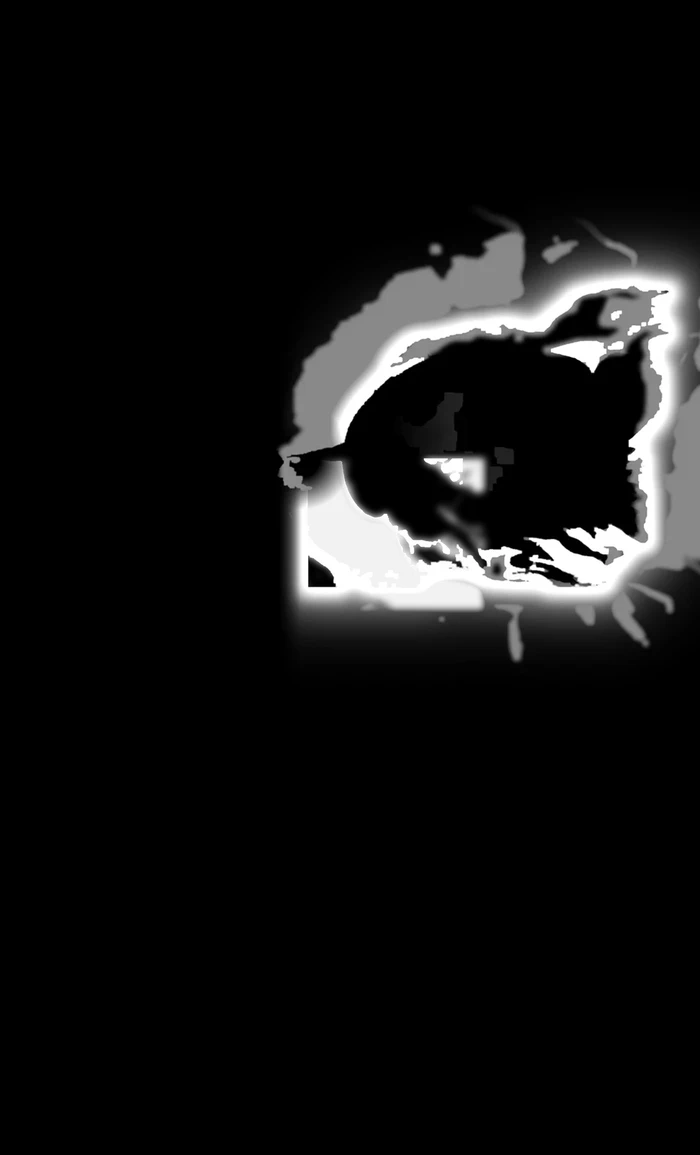
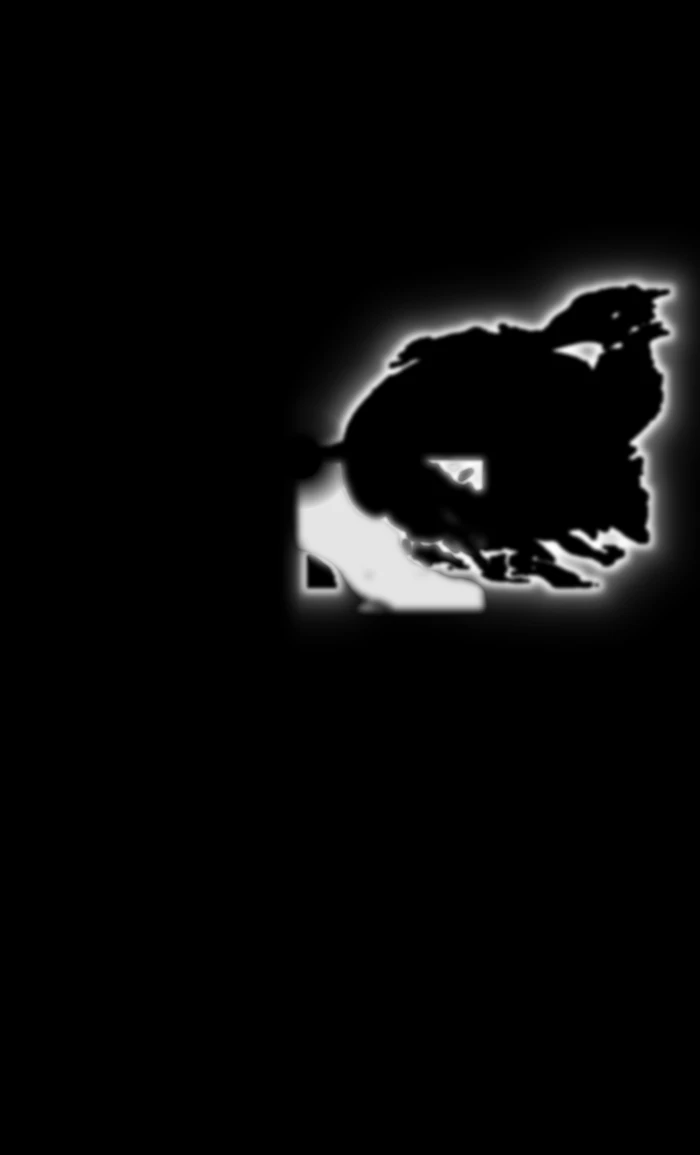
Christ whole: no glitch across the table edge, no white rim; narrower glitch on God
- Last Supper: the band across the table edge stays clear, so Christ is
  never shown split between body and feet; his figure edge is pulled in
  past the window fringe kept by the cut, so no bright outline shows
  when the glitch darkens the air; the halo's glow is kept off his hair.
- Day: the glitch around God is narrower (same reach as around Christ)
  and fades just before his body.

Changed region(s): [[0.39, 0.187, 1.0, 0.5922]]

diff --git a/public/main.js b/public/main.js
@@ -45,8 +45,8 @@ const load = src => new Promise((res, rej) => { const i = new Image(); i.onload 
 // each picture is one painting grown past Michelangelo's frame; wide and tall screens are cut from it around its focus
 const shape = innerWidth / innerHeight >= .8 ? 'wide' : 'tall';
 if (!gl) { root.classList.add('no-gl'); ready(); }
-else fetch('/img/scene.json?v=1791965016').then(r => r.json()).then(meta =>
-  Promise.all([shape === 'wide' ? 'night-wide' : 'night', shape === 'wide' ? 'night-wide-flow' : 'night-flow', shape === 'wide' ? 'day' : 'day-tall', shape === 'wide' ? 'day-flow' : 'day-tall-flow', shape === 'wide' ? 'supper' : 'supper-tall', shape === 'wide' ? 'supper-flow' : 'supper-tall-flow', shape === 'wide' ? 'day-rift' : 'day-tall-rift', shape === 'wide' ? 'supper-aura' : 'supper-tall-aura'].map(n => load(`/img/${n}.webp?v=1791965016`)))
+else fetch('/img/scene.json?v=1791967020').then(r => r.json()).then(meta =>
+  Promise.all([shape === 'wide' ? 'night-wide' : 'night', shape === 'wide' ? 'night-wide-flow' : 'night-flow', shape === 'wide' ? 'day' : 'day-tall', shape === 'wide' ? 'day-flow' : 'day-tall-flow', shape === 'wide' ? 'supper' : 'supper-tall', shape === 'wide' ? 'supper-flow' : 'supper-tall-flow', shape === 'wide' ? 'day-rift' : 'day-tall-rift', shape === 'wide' ? 'supper-aura' : 'supper-tall-aura'].map(n => load(`/img/${n}.webp?v=1791967020`)))
     .then(ims => paint(gl, ims, meta[shape])))
   .catch(e => { console.error(String(e && e.message || e)); root.classList.add('no-gl'); ready(); });   // log, then fall back
 
@@ -285,7 +285,7 @@ function paint(gl, [nightImg, nightFlow, dayImg, dayFlow, supImg, supFlow, riftI
     if (wD*md > .01) { vec3 c = glitch(TD, TN, FN_, TL, FL_, RD, vp, 1.3, 7.); float g_ = wD*md*GA; col += c*g_; a += g_; }
     // the Last Supper: the air breaking around Christ
     vec2 su = clamp(vec2((vp.x - RL.x)/RL.z, 1. - (vp.y - RL.y)/RL.w), 0., 1.);
-    vec4 au = texture(TA, su); float ms = clamp(au.r*1.5, 0., 1.); float cm = smoothstep(.12, .4, au.g);   /* cm: Christ himself */
+    vec4 au = texture(TA, su); float ms = clamp(au.r*1.5, 0., 1.); float cm = smoothstep(.25, .65, au.g);   /* cm: Christ himself */
     vec2 hc = vec2(RL.x + HALO.x*RL.z, RL.y + (1. - HALO.y)*RL.w); float hr = HALO.z*RL.z;
     float hd = length((vp - hc)*vec2(1., 1.08));
     float halo = smoothstep(hr*.16, 0., abs(hd - hr*1.45)) * step(hc.y - hr*.55, vp.y);   /* a glitching halo ring behind his head */
@@ -297,10 +297,10 @@ function paint(gl, [nightImg, nightFlow, dayImg, dayFlow, supImg, supFlow, riftI
     float rr = length((vp + vec2(hj, 0.) - hc - vec2(hr*.05, 0.))*vec2(1., 1.08)), rg = length((vp + vec2(hj, 0.) - hc)*vec2(1., 1.08)), rb = length((vp + vec2(hj, 0.) - hc + vec2(hr*.05, 0.))*vec2(1., 1.08));
     float w = hr*.07, R0 = hr*1.45, up = smoothstep(hc.y - hr*.7, hc.y - hr*.35, vp.y);
     vec3 ring = vec3(exp(-pow((rr - R0)/w, 2.)), exp(-pow((rg - R0)/w, 2.)), exp(-pow((rb - R0)/w, 2.))) * up;
-    ring += vec3(1., .85, .5) * exp(-pow((rg - R0)/(w*4.), 2.)) * .35 * up;                      // its soft glow
+    ring += vec3(1., .85, .5) * exp(-pow((rg - R0)/(w*2.2), 2.)) * .14 * up * smoothstep(R0*.82, R0*.95, rg);   // a soft glow, kept off his hair
     ring *= 1. - cm;
     float hv = wS * clamp(max(max(ring.r, ring.g), ring.b), 0., 1.) * (.75 + .25*hh(hb*.3 + hfr));
-    if (hv > .01) { col += vec3(1., .9, .62)*ring*3.*wS + vec3(.2,.1,0.)*ring.r; a += hv; }
+    if (hv > .01) { col += vec3(1., .9, .62)*ring*2.4*wS + vec3(.2,.1,0.)*ring.r; a += hv; }
     if (a < .01) discard;
     o = vec4(col/a, clamp(a*1.35, 0., 1.) * burst);
   }`;

diff --git a/public/index.html b/public/index.html
@@ -19,7 +19,7 @@
 <link rel="preconnect" href="https://fonts.googleapis.com">
 <link rel="preconnect" href="https://fonts.gstatic.com" crossorigin>
 <link rel="stylesheet" href="https://fonts.googleapis.com/css2?family=Cinzel:wght@400;500&family=Cormorant+Garamond:ital,wght@0,300;0,400;1,300;1,400&display=swap">
-<link rel="stylesheet" href="/style.css?v=1791965016">
+<link rel="stylesheet" href="/style.css?v=1791967020">
 <script>document.documentElement.classList.add('js')</script>
 </head>
 <body>
@@ -85,6 +85,6 @@
 
 
 <noscript><style>.reveal,.reveal-words,.display .line>span{opacity:1!important;transform:none!important}</style></noscript>
-<script type="module" src="/main.js?v=1791965016"></script>
+<script type="module" src="/main.js?v=1791967020"></script>
 </body>
 </html>
